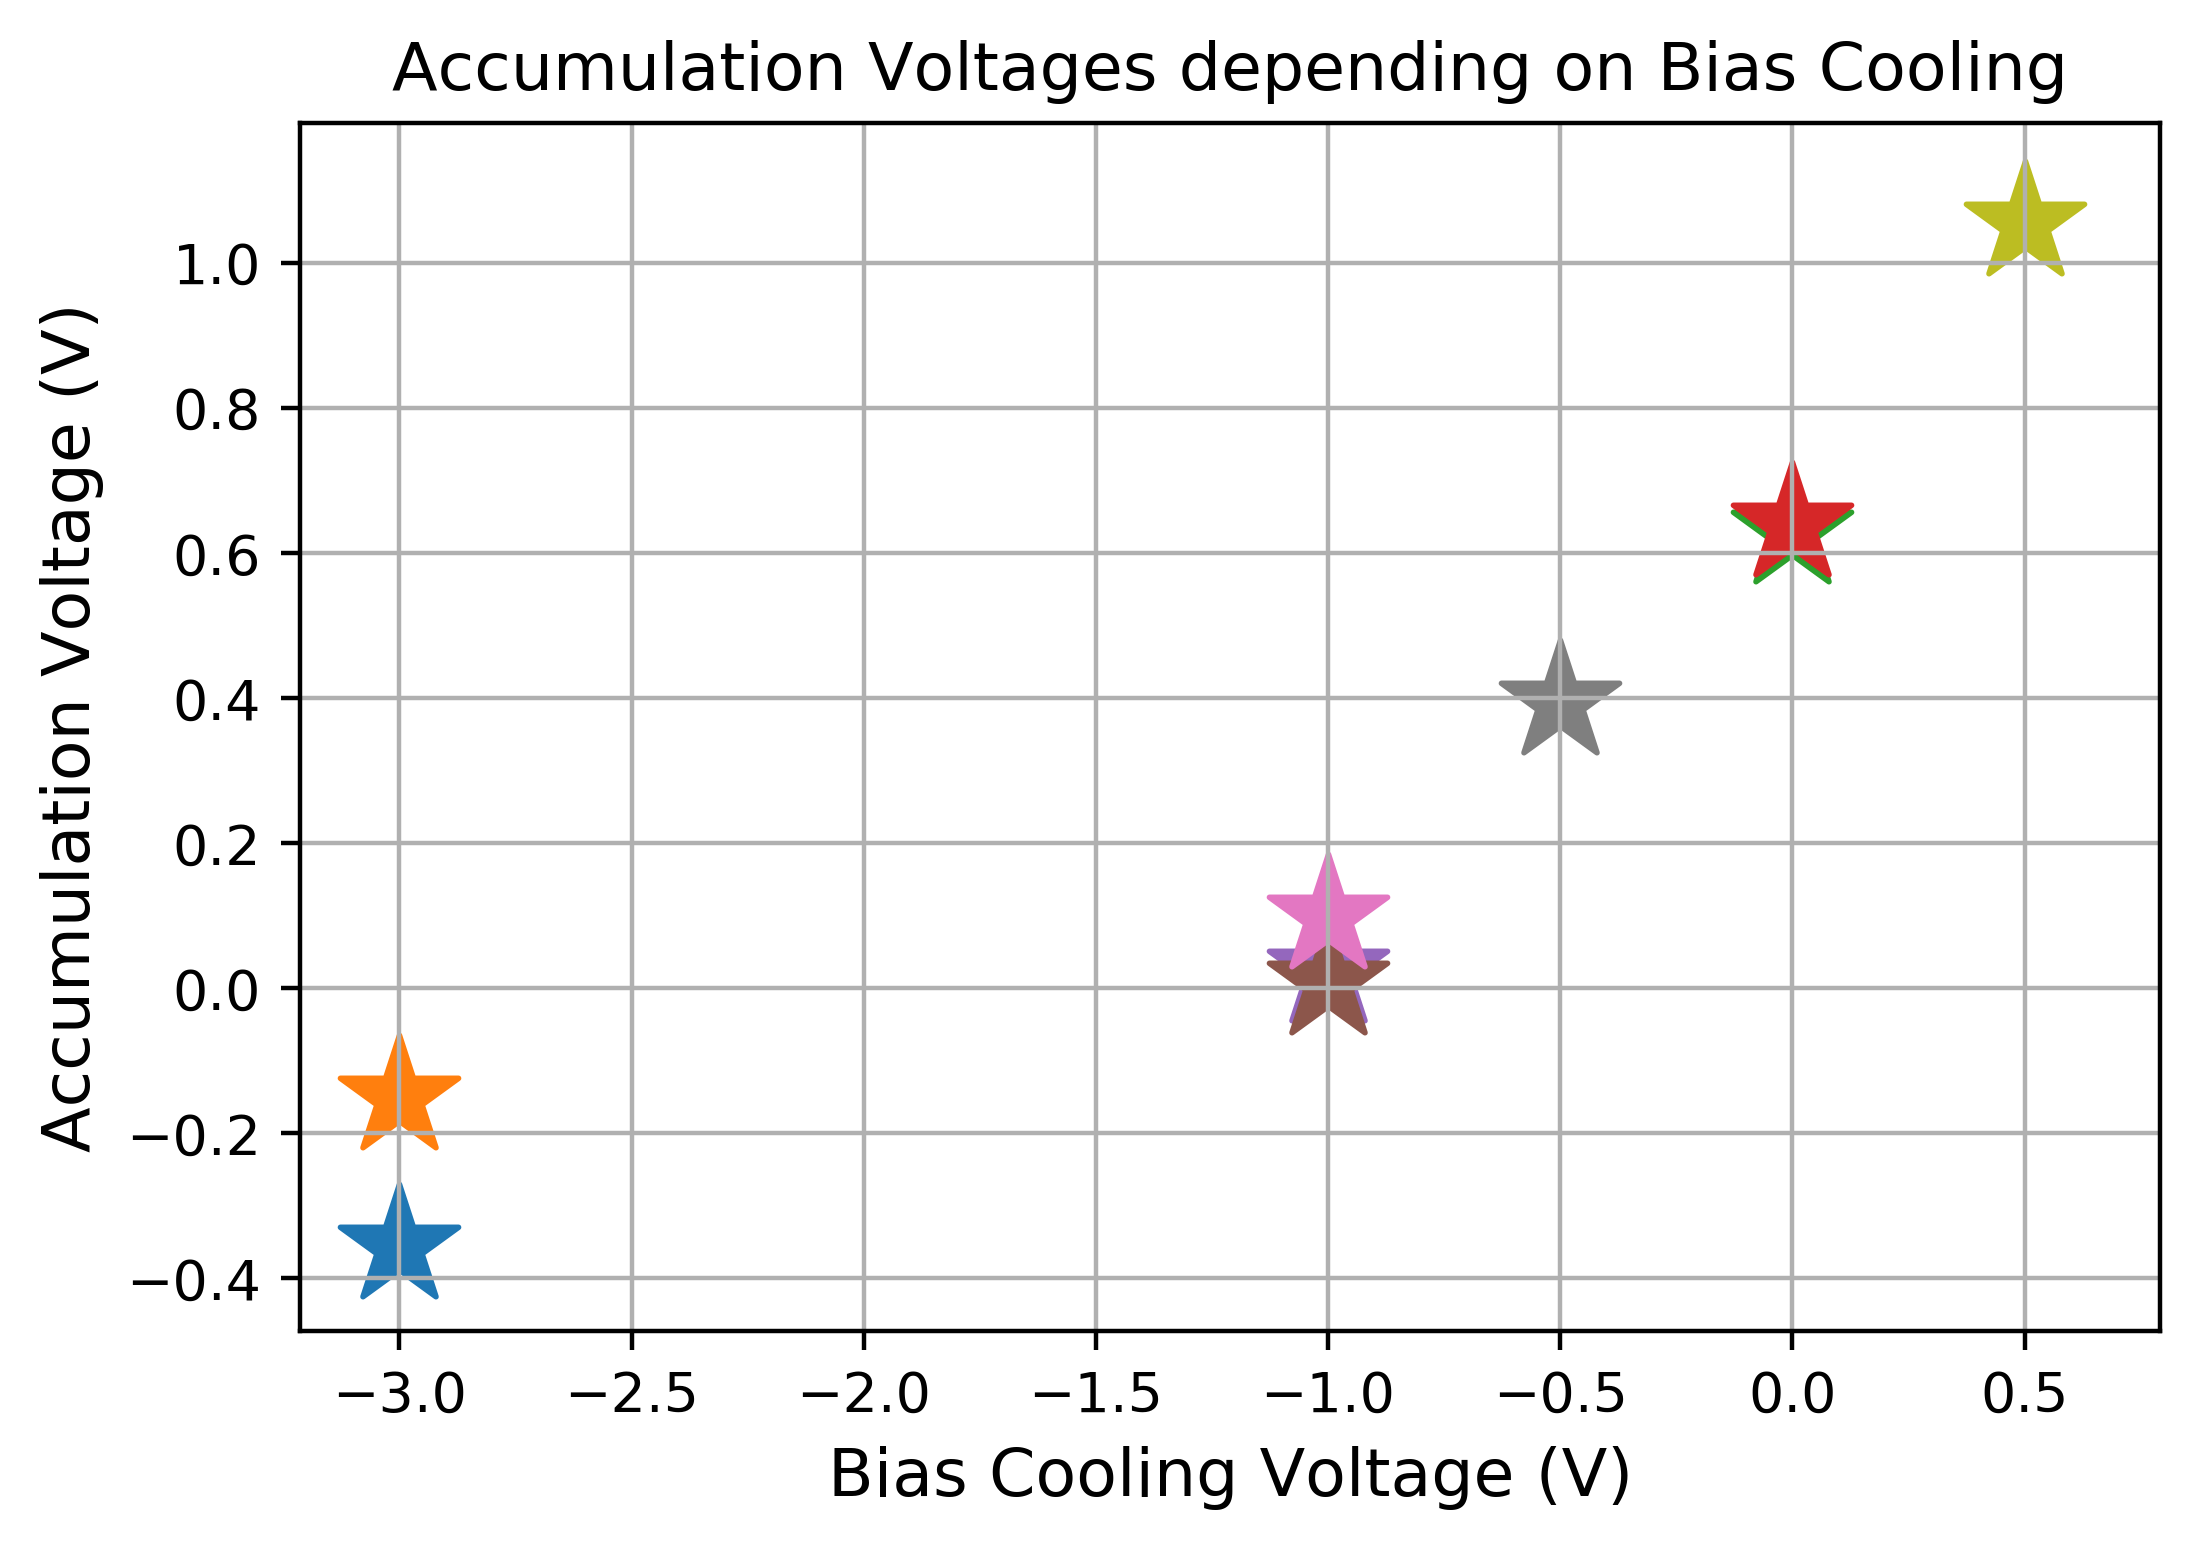
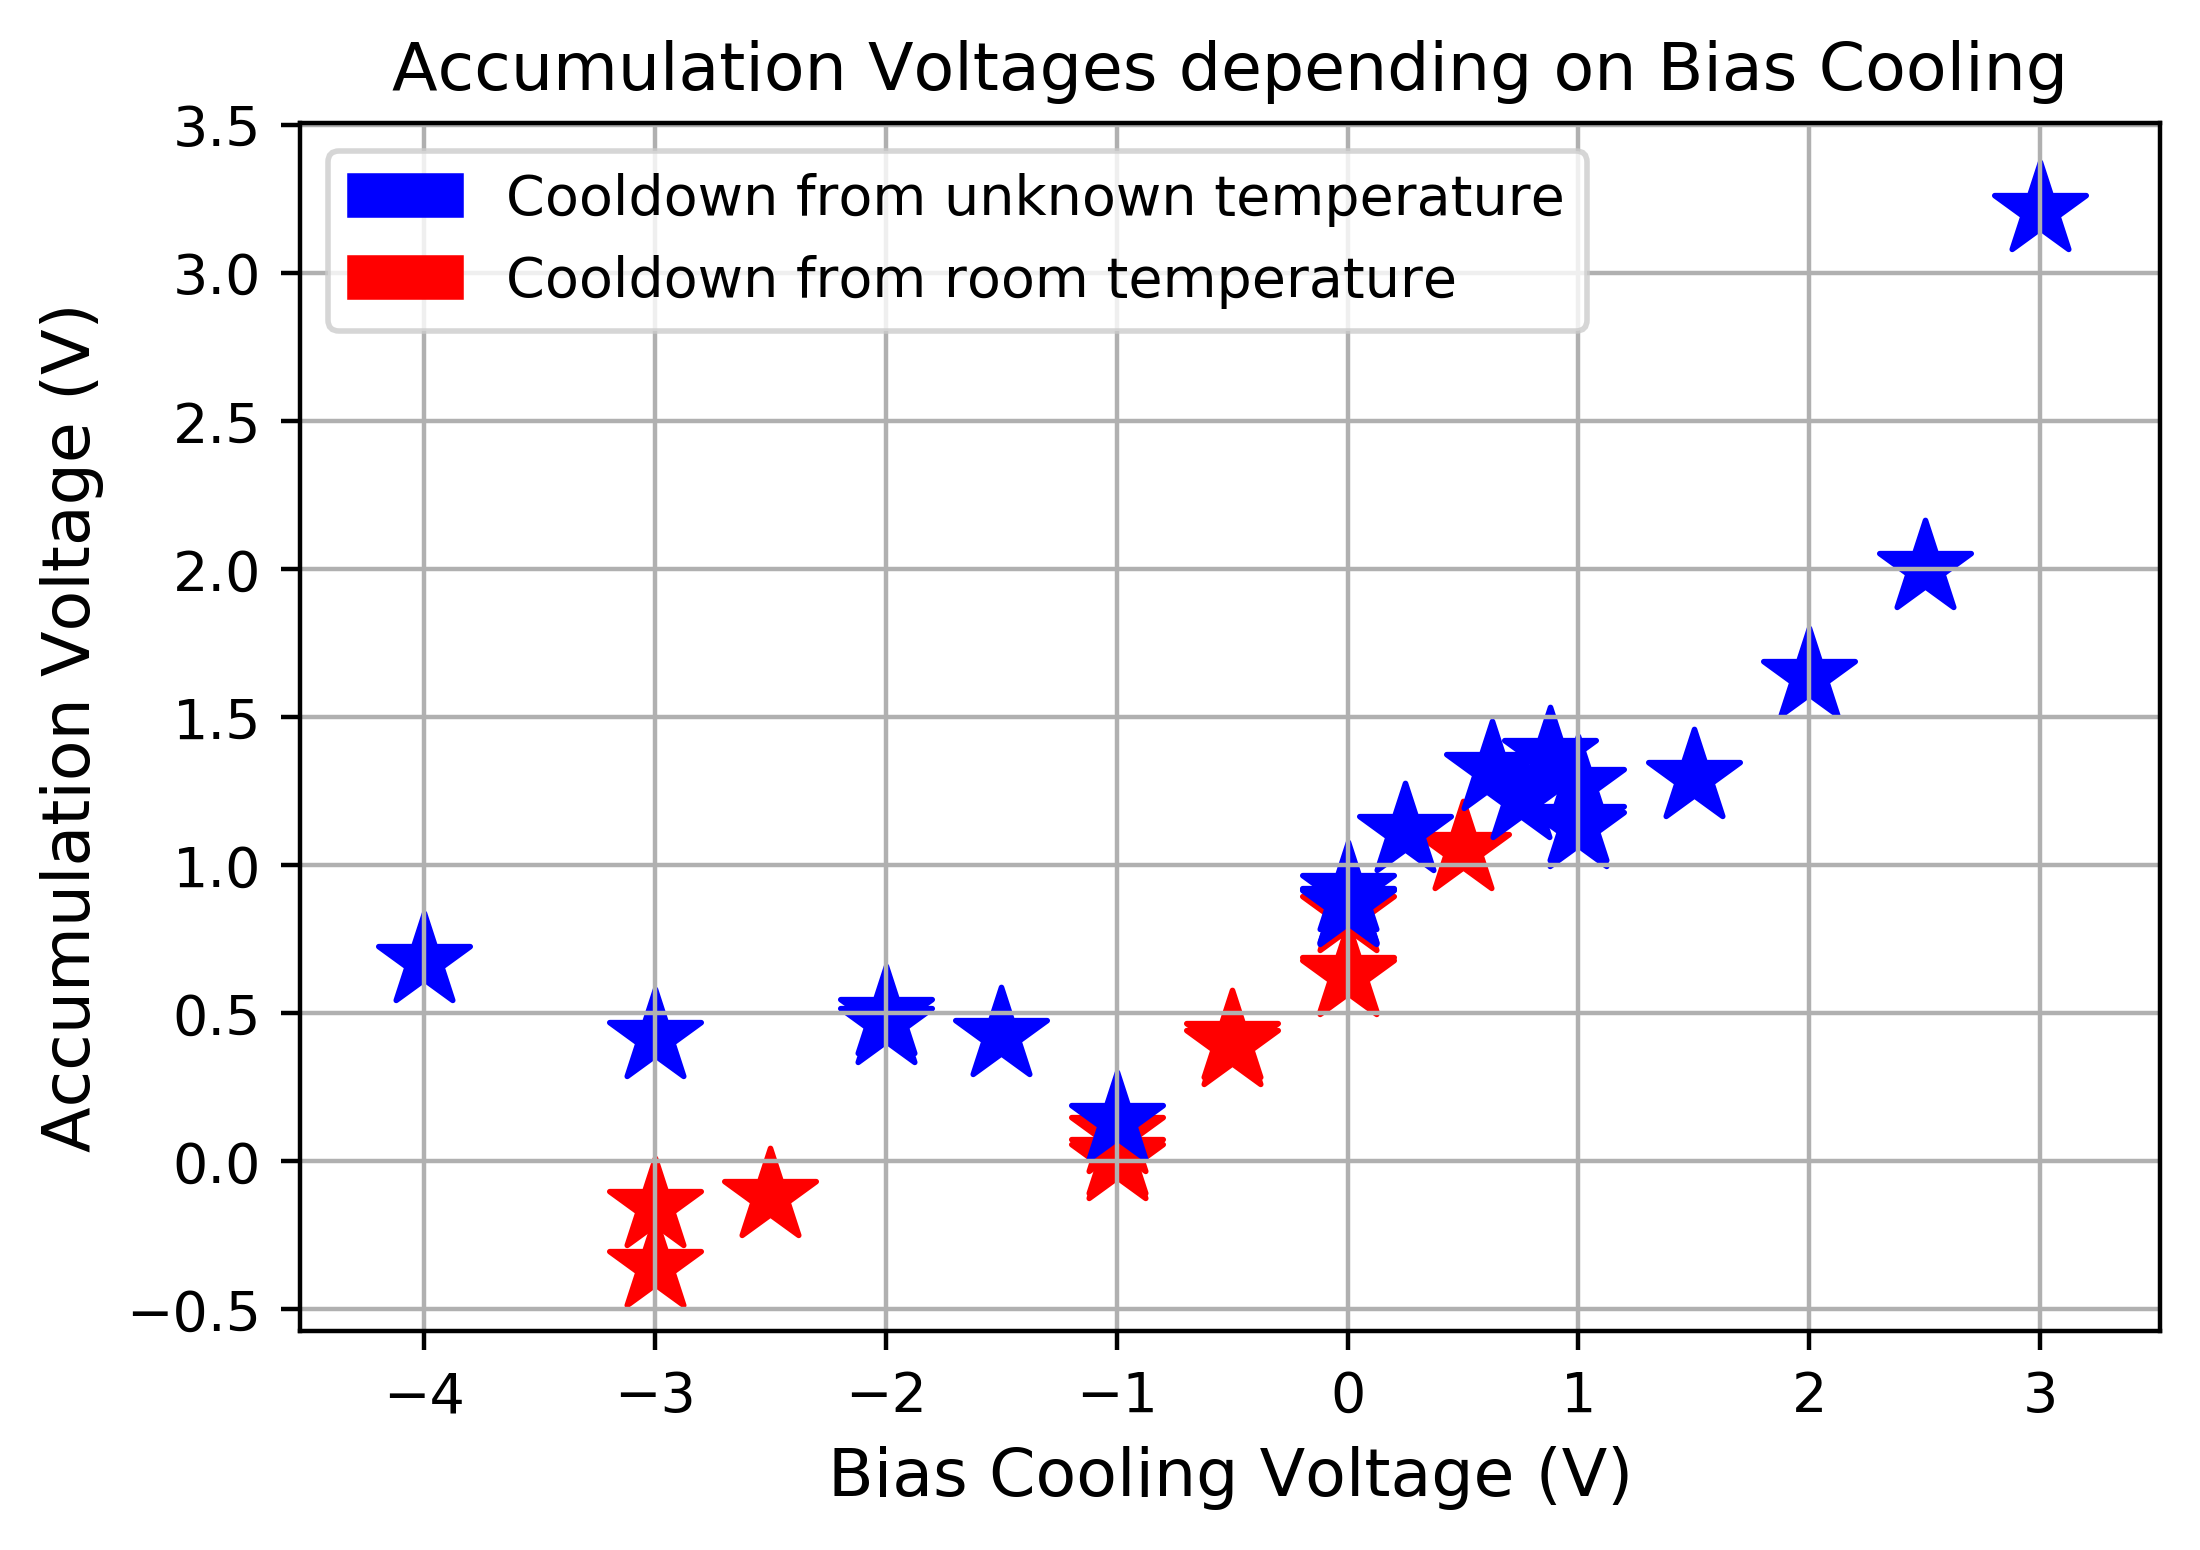
latest version

diff --git a/qkit/analysis/semiconductor/timetrace_functionality.py b/qkit/analysis/semiconductor/timetrace_functionality.py
@@ -207,7 +207,7 @@ class PlotterTimetraceSpectralNoiseDensity(PlotterSemiconInit):
     def __init__(self, *args, **kwargs):
         super().__init__(*args, **kwargs)
 
-    def plot(self, settings, data, fit_params_plunger_in=None, fit_vals=None, savename=None, xlim:list=None, ylim:list=None, dotsize=0.5, fiftyHz:bool=False):
+    def plot(self, settings:dict, data:dict, fit_params_plunger_in=None, fit_vals=None, savename=None, xlim:list=None, ylim:list=None, dotsize=0.5, fiftyHz:bool=False):
         """Plots the sqrt of a spectrum (data["spectrogram"]). Respecting scaling with the slope of a plunger gate sweep (fit_params_plunger). 
             data: spectral data in dictionary with keys "freq", "times", "spectorgram"
             fit_params_plunger_in: dict including key "fit_coef" 
@@ -253,6 +253,70 @@ class PlotterTimetraceSpectralNoiseDensity(PlotterSemiconInit):
             self.ax.legend(loc="lower left")
 
         plt.grid()
+        plt.savefig(f"{create_saving_path(settings)}/{savename}.png", dpi=self.set_dpi, bbox_inches=self.set_bbox_inches)
+        plt.show()
+        self.close_delete()
+
+
+
+
+class PlotterTimetracePeakTrackingSND(PlotterSemiconInit):
+    """Plots the spectral noise density using the equivalent gate voltage found in fit_params['fit_coef'][0] if provided.
+    """
+    number_of_traces = 1
+
+    def __init__(self, *args, **kwargs):
+        super().__init__(*args, **kwargs)
+
+    def plot(self, settings:dict, data:dict, data_peak_tracking, fit_params_plunger_in=None, fit_vals=None, savename=None, xlim:list=None, ylim:list=None, dotsize=0.5, fiftyHz:bool=False, legend_loc="lower left"):
+        """Plots the sqrt of a spectrum (data["spectrogram"]). Respecting scaling with the slope of a plunger gate sweep (fit_params_plunger). 
+            data: spectral data in dictionary with keys "freq", "times", "spectorgram"
+            data_peak_tracking: spectral data of a peak tracking that won't need division by equivalent gate voltage
+            fit_params_plunger_in: dict including key "fit_coef" 
+            fit_vals: dict with keys "popt" and "SND1Hz" that is used to plot a linear fit to the data
+            fifyHz: bool that overlays the first 30 50Hz multiples
+        """
+        self.ax.set_title("Spectral Noise Density")
+        self.ax.set_xscale("log")
+        self.ax.set_yscale("log")
+        self.ax.set_xlabel("Frequency (Hz)")
+        self.ax.set_ylabel("Spectral Density ($V/\sqrt{\mathrm{Hz}}$)")
+        if xlim != None:
+            self.ax.set_xlim(xlim)
+        if ylim != None:
+            self.ax.set_ylim(ylim)
+        if fit_params_plunger_in is None: # for reference measurements without plunger gate sweeps the slope is 1
+            fit_params_plunger = {}
+            fit_params_plunger["fit_coef"] = [1]
+        else:
+            fit_params_plunger = fit_params_plunger_in
+        if savename == None:
+            savename = f"SND_slope_{fit_params_plunger['fit_coef'][0]:.3f}"
+
+        if fiftyHz == True: # plotting 50Hz multiples
+            savename += "_50Hz"
+            freqs = []
+            signals = []
+            for f in [i*50 for i in range(31)]:
+                freqs.extend([f]*1000 )
+                signals.extend(np.logspace(-8, -1, 1000))
+            self.ax.plot(freqs, signals, "yo", markersize=dotsize)
+
+        self.ax.plot(data_peak_tracking["freq"], np.sqrt(data_peak_tracking["spectrogram"]), "or", markersize=dotsize, label="peak tracking", markerscale=3)
+        self.ax.plot(data["freq"], np.sqrt(data["spectrogram"] / fit_params_plunger['fit_coef'][0]), "ok", markersize=dotsize, label="timetrace", markerscale=3)
+
+        if fit_vals is not None:
+            def func(x, a, b):
+                return a * np.power(x, b) 
+            index_begin = map_array_to_index(data["freq"], 1e-1)
+            index_end = map_array_to_index(data["freq"], 1e1)
+            freqs = data["freq"][index_begin : index_end]
+            text = f"SD(1Hz): {fit_vals['popt'][0]*1e6:.1f} " + "$\mathrm{\mu V}/\sqrt{\mathrm{Hz}}$"
+            self.ax.plot(freqs, func(freqs, *fit_vals["popt"]), label=text)
+            self.ax.legend(loc="lower left")
+
+        plt.grid()
+        plt.legend(loc=legend_loc)
         plt.savefig(f"{create_saving_path(settings)}/{savename}.png", dpi=self.set_dpi, bbox_inches=self.set_bbox_inches)
         plt.show()
         self.close_delete()

diff --git a/qkit/analysis/semiconductor/scripts/biascooling_accumulation_plots_pandas.py b/qkit/analysis/semiconductor/scripts/biascooling_accumulation_plots_pandas.py
@@ -1,12 +1,14 @@
 #%%
-from qkit.analysis.semiconductor.basic_functionality import PlotterBiascoolingAccumulation
+from qkit.analysis.semiconductor.basic_functionality import PlotterSemiconInit
+import matplotlib.pyplot as plt
+import matplotlib.patches as mpatches
 import pandas as pd
 import numpy as np
 
 
 # %%
 data = []
-path = "/V/GroupWernsdorfer/SEMICONDUCTOR_SYSTEMS/Bias_cooling_Project/test_readout/Data_overview_P35_B1.xlsx"
+path = "/V/GroupWernsdorfer/SEMICONDUCTOR_SYSTEMS/Bias_cooling_Project/Data_overview_P35_B1.xlsx"
 ignored_rows = 4
 df = pd.read_excel(path, skiprows=np.arange(ignored_rows))
 
@@ -15,15 +17,44 @@ for measurement in range(len(df["Biascooling (V)"].to_numpy())):
     data.append({"bias_V" : df["Biascooling (V)"].to_numpy()[measurement],
                 "first_acc_V" : df["Left demod0. gates (V)"].to_numpy()[measurement],
                 "date" : "x",
+                "RT cooldown" : df["RT cooldown"].to_numpy()[measurement],
                 "sample" : "P35_B1",
                 "second_acc_V" : "x",
                 "SET" : "x"
                 }) 
 
 
+#%%
+class PlotterBiascoolingAccumulation(PlotterSemiconInit):
+    """Plots Accumulation voltages over bias cooling voltage.
+    """
+
+    def __init__(self, *args, **kwargs):
+        super().__init__(*args, **kwargs)
+
+    def plot(self, data, savename="accumulations_biascooling", shape="^", size=100, transparency=1):
+        self.ax.set_title("Accumulation Voltages depending on Bias Cooling")
+        self.ax.set_xlabel("Bias Cooling Voltage (V)")
+        self.ax.set_ylabel("Accumulation Voltage (V)")
+        for cooldown in data:
+            if cooldown["RT cooldown"] == "y":
+                self.ax.scatter(cooldown["bias_V"], cooldown["first_acc_V"], marker=shape, s=size, alpha=transparency, color="r")
+            elif cooldown["RT cooldown"] == "n":
+                self.ax.scatter(cooldown["bias_V"], cooldown["first_acc_V"], marker=shape, s=size, alpha=transparency, color="b")
+            else:
+                self.ax.scatter(cooldown["bias_V"], cooldown["first_acc_V"], marker=shape, s=size, alpha=transparency, color="c")
+        plt.grid()
+        red_patch = mpatches.Patch(color='red', label='Cooldown from room temperature')
+        blue_patch = mpatches.Patch(color='blue', label='Cooldown from unknown temperature')
+        plt.legend(handles=[blue_patch, red_patch])
+        plt.savefig(f"{savename}.png", dpi=self.set_dpi, bbox_inches=self.set_bbox_inches)
+        plt.show() 
+        self.close_delete()
+
 
 #%%
 plotter = PlotterBiascoolingAccumulation()
-plotter.plot(data, shape="*", size=500, transparency=1)
+plotter.plot(data, shape="*", size=300, transparency=1)
 
 # 
+# %%
